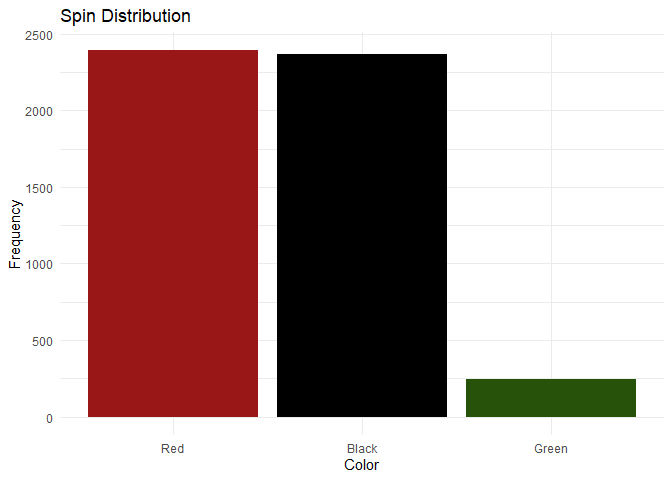
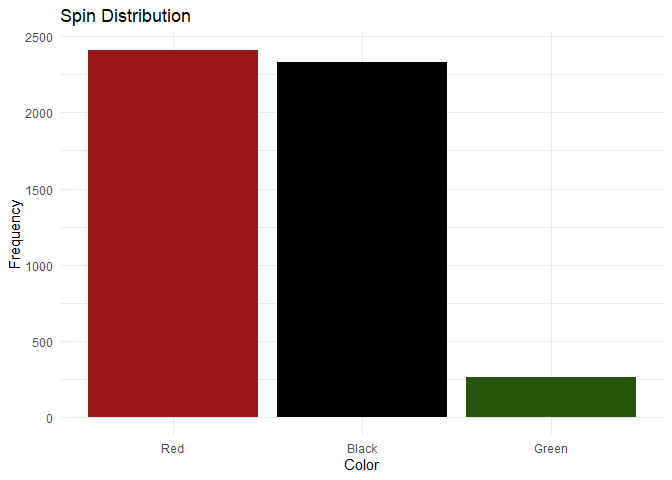
Add files via upload

diff --git a/Roulette/Roulette.md b/Roulette/Roulette.md
@@ -37,7 +37,7 @@ mutate(color = sample(c("Black","Red","Green"),
        ) %>% 
 mutate(bet = bet_increment,
        all_green = if_else(color == "Green",bet*17,-bet),
-       all_red = if_else(color == "Red",bet*2,-bet),
+       all_red = if_else(color == "Red",bet,-bet),
        green_balance = begn_balance+cumsum(all_green),
        red_balance = begn_balance+cumsum(all_red),
        spin_number = as.integer(spin_number),
@@ -48,19 +48,19 @@ spins %>% head(10)
 ```
 
     ## # A tibble: 10 × 9
-    ## # Groups:   color [2]
+    ## # Groups:   color [3]
     ##    spin_number color   bet all_green all_red green_balance red_balance streak
     ##          <int> <chr> <dbl>     <dbl>   <dbl>         <dbl>       <dbl>  <dbl>
     ##  1           1 Black     5        -5      -5            95          95      0
-    ##  2           2 Red       5        -5      10            90         105      0
-    ##  3           3 Red       5        -5      10            85         115      1
-    ##  4           4 Red       5        -5      10            80         125      2
-    ##  5           5 Black     5        -5      -5            75         120      0
-    ##  6           6 Black     5        -5      -5            70         115      1
-    ##  7           7 Red       5        -5      10            65         125      0
-    ##  8           8 Black     5        -5      -5            60         120      0
-    ##  9           9 Red       5        -5      10            55         130      0
-    ## 10          10 Black     5        -5      -5            50         125      0
+    ##  2           2 Black     5        -5      -5            90          90      1
+    ##  3           3 Red       5        -5       5            85          95      0
+    ##  4           4 Red       5        -5       5            80         100      1
+    ##  5           5 Green     5        85      -5           165          95      0
+    ##  6           6 Red       5        -5       5           160         100      0
+    ##  7           7 Red       5        -5       5           155         105      1
+    ##  8           8 Black     5        -5      -5           150         100      0
+    ##  9           9 Black     5        -5      -5           145          95      1
+    ## 10          10 Red       5        -5       5           140         100      0
     ## # ℹ 1 more variable: freq <int>
 
 To ensure the random sampling is correct, the below graph shows the
@@ -104,11 +104,11 @@ spins %>%
     ## # A tibble: 6 × 4
     ##   streak Black Green   Red
     ##    <dbl> <dbl> <dbl> <dbl>
-    ## 1      0  0.53  0.93  0.52
-    ## 2      1  0.25  0.07  0.25
-    ## 3      2  0.11  0     0.13
-    ## 4      3  0.06  0     0.06
-    ## 5      4  0.03  0     0.03
+    ## 1      0  0.54  0.95  0.52
+    ## 2      1  0.25  0.05  0.25
+    ## 3      2  0.11  0.01  0.12
+    ## 4      3  0.05  0     0.05
+    ## 5      4  0.02  0     0.03
     ## 6      5  0.01  0     0.01
 
 ### Simulation 1 - Constant Amount
@@ -190,7 +190,7 @@ mutate(red_streak = coalesce(case_when(color == "Red" & lag(color) == "Red" ~ 1,
        ) %>% 
   left_join(triangle,by=c("red_streak"="spin")) %>% 
   rename(red_bet = bet_amount) %>% 
-  mutate(all_red = if_else(color == "Red",red_bet*2,-red_bet),
+  mutate(all_red = if_else(color == "Red",red_bet,-red_bet),
        red_balance = begn_balance+cumsum(all_red))
 
  
@@ -198,16 +198,16 @@ spins %>% head(10)
 ```
 
     ##    spin_number color red_streak red_bet all_red red_balance
-    ## 1            1 Black          1       5      -5          95
-    ## 2            2   Red          2      10      20         115
-    ## 3            3 Black          1       5      -5         110
-    ## 4            4 Black          2      10     -10         100
-    ## 5            5 Black          3      20     -20          80
-    ## 6            6 Black          4      40     -40          40
-    ## 7            7   Red          5      80     160         200
-    ## 8            8   Red          1       5      10         210
-    ## 9            9   Red          1       5      10         220
-    ## 10          10 Green          1       5      -5         215
+    ## 1            1 Green          1       5      -5          95
+    ## 2            2 Black          2      10     -10          85
+    ## 3            3 Black          3      20     -20          65
+    ## 4            4 Black          4      40     -40          25
+    ## 5            5   Red          5      80      80         105
+    ## 6            6 Black          1       5      -5         100
+    ## 7            7 Black          2      10     -10          90
+    ## 8            8   Red          3      20      20         110
+    ## 9            9 Black          1       5      -5         105
+    ## 10          10 Green          2      10     -10          95
 
 ``` r
 ggplot(spins) +
@@ -224,18 +224,3 @@ ggplot(spins) +
 ```
 
 ![](Roulette_files/figure-gfm/unnamed-chunk-7-1.png)<!-- -->
-
-Maximum drawdown is -\$1,375 with a maximum wager of \$2,560 on the
-line.
-
-``` r
-summary(spins %>% select(red_bet,red_balance))
-```
-
-    ##     red_bet         red_balance   
-    ##  Min.   :   5.00   Min.   :-1255  
-    ##  1st Qu.:   5.00   1st Qu.: 4079  
-    ##  Median :  10.00   Median : 6402  
-    ##  Mean   :  32.85   Mean   : 5829  
-    ##  3rd Qu.:  20.00   3rd Qu.: 7942  
-    ##  Max.   :2560.00   Max.   :10065
